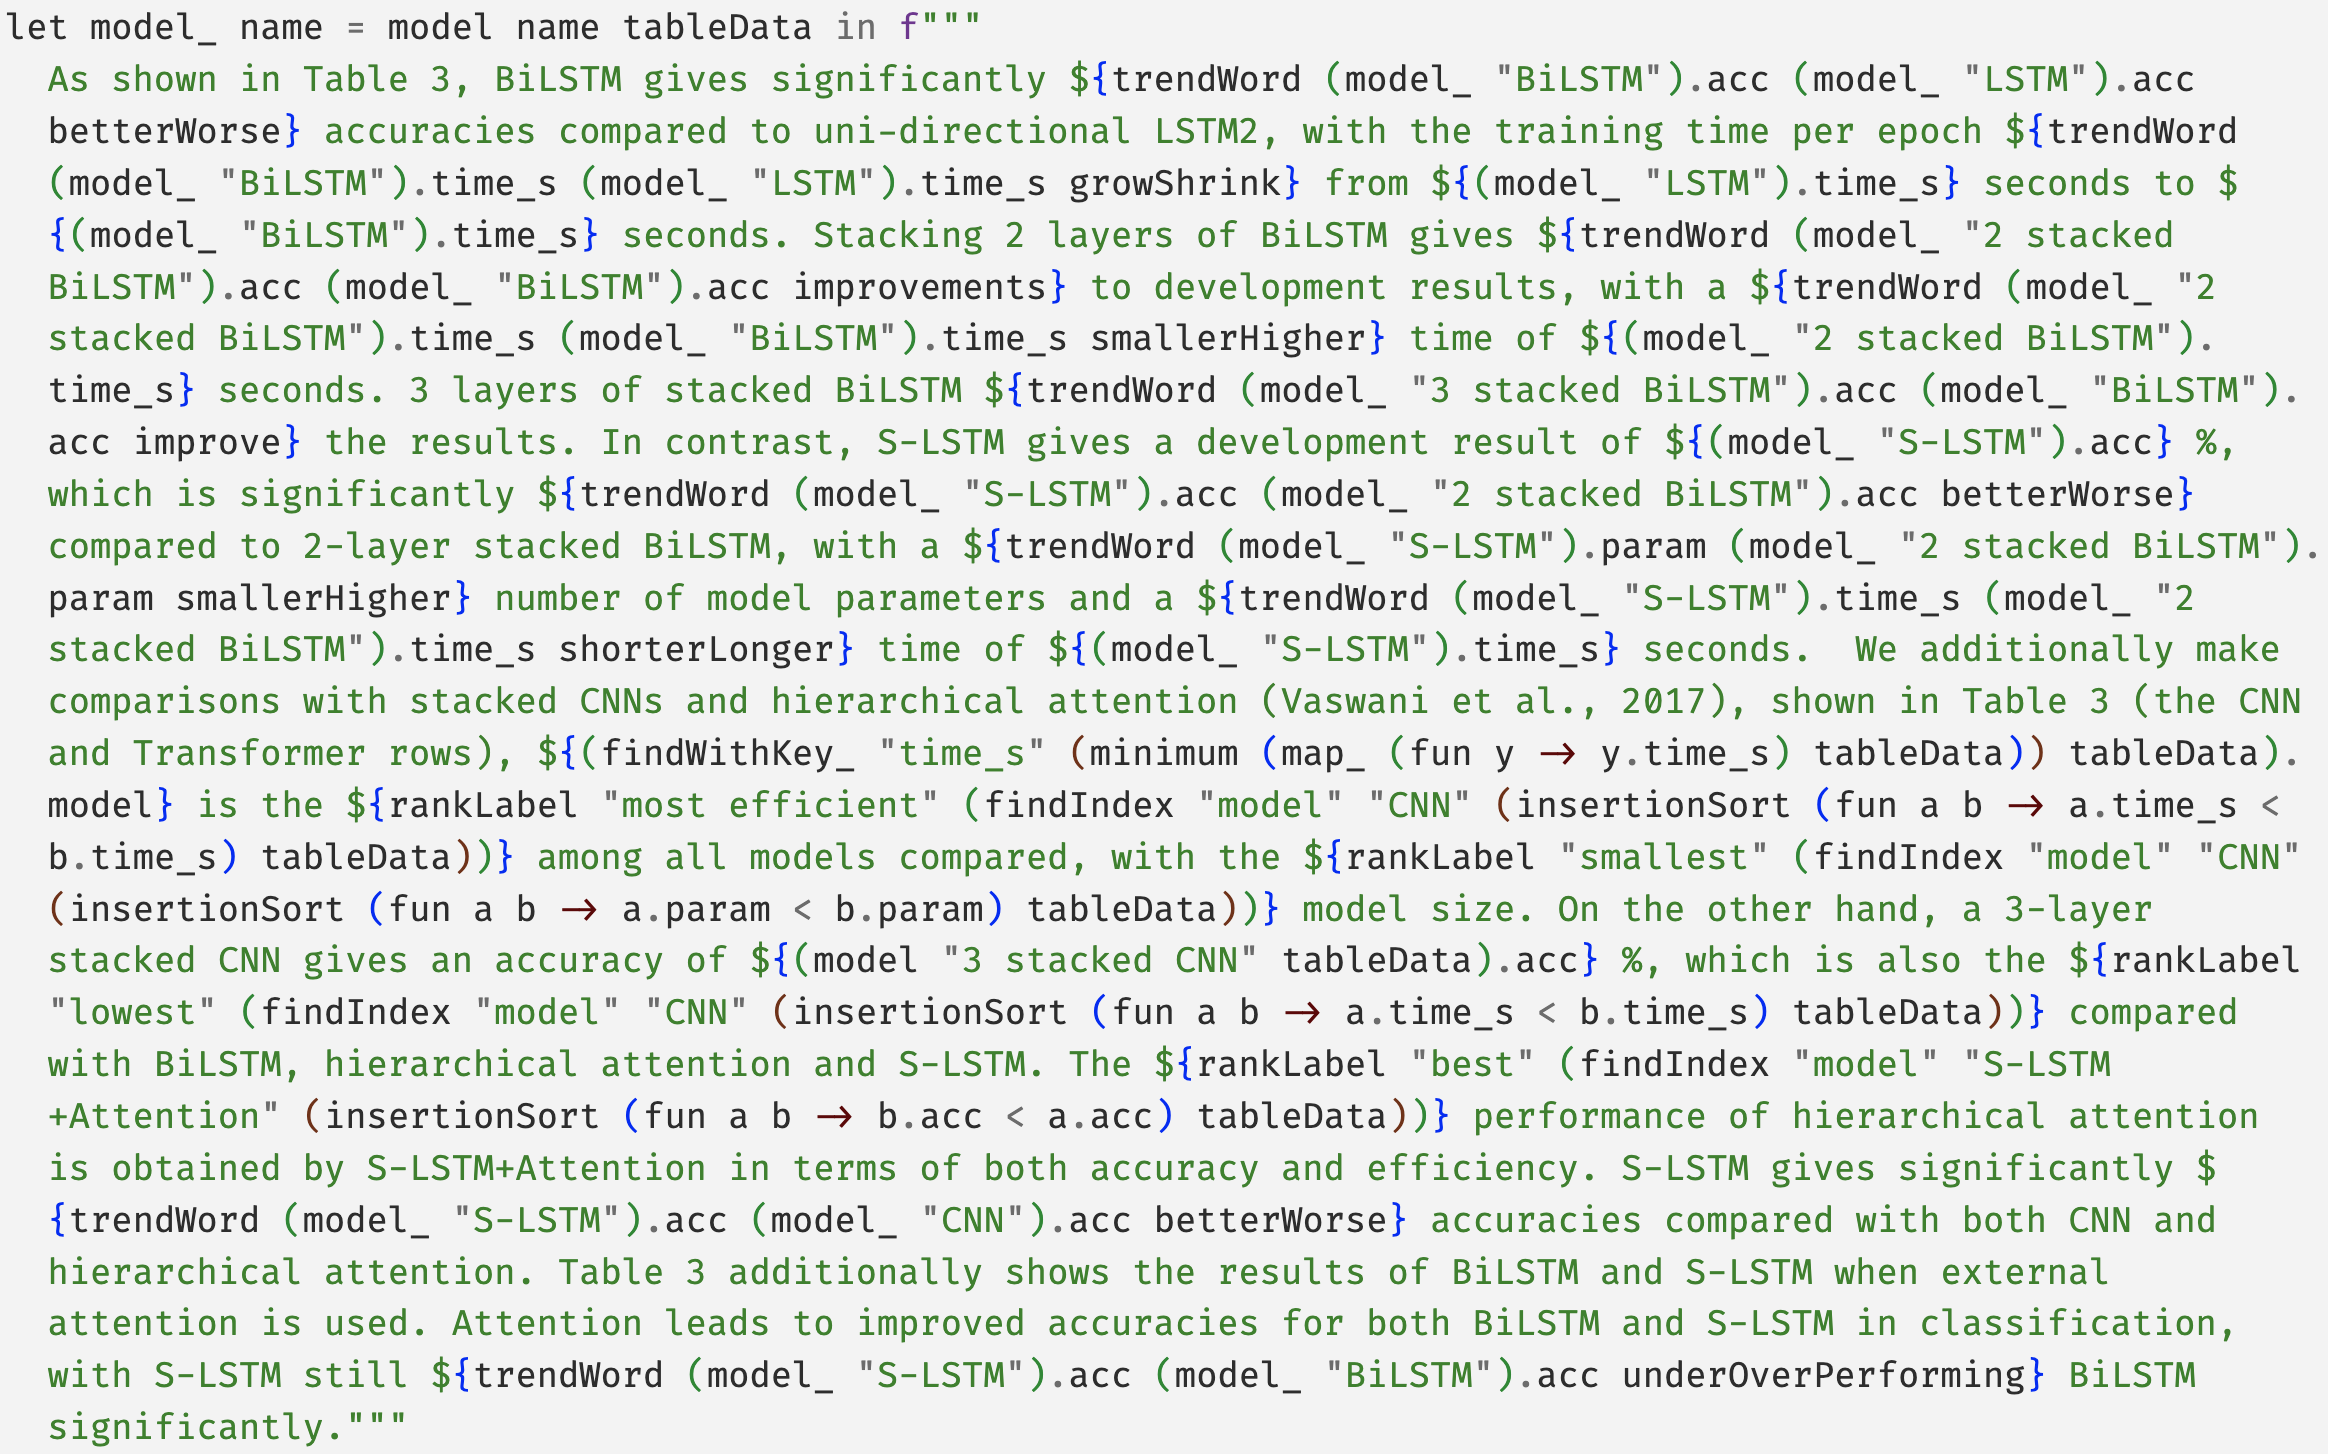
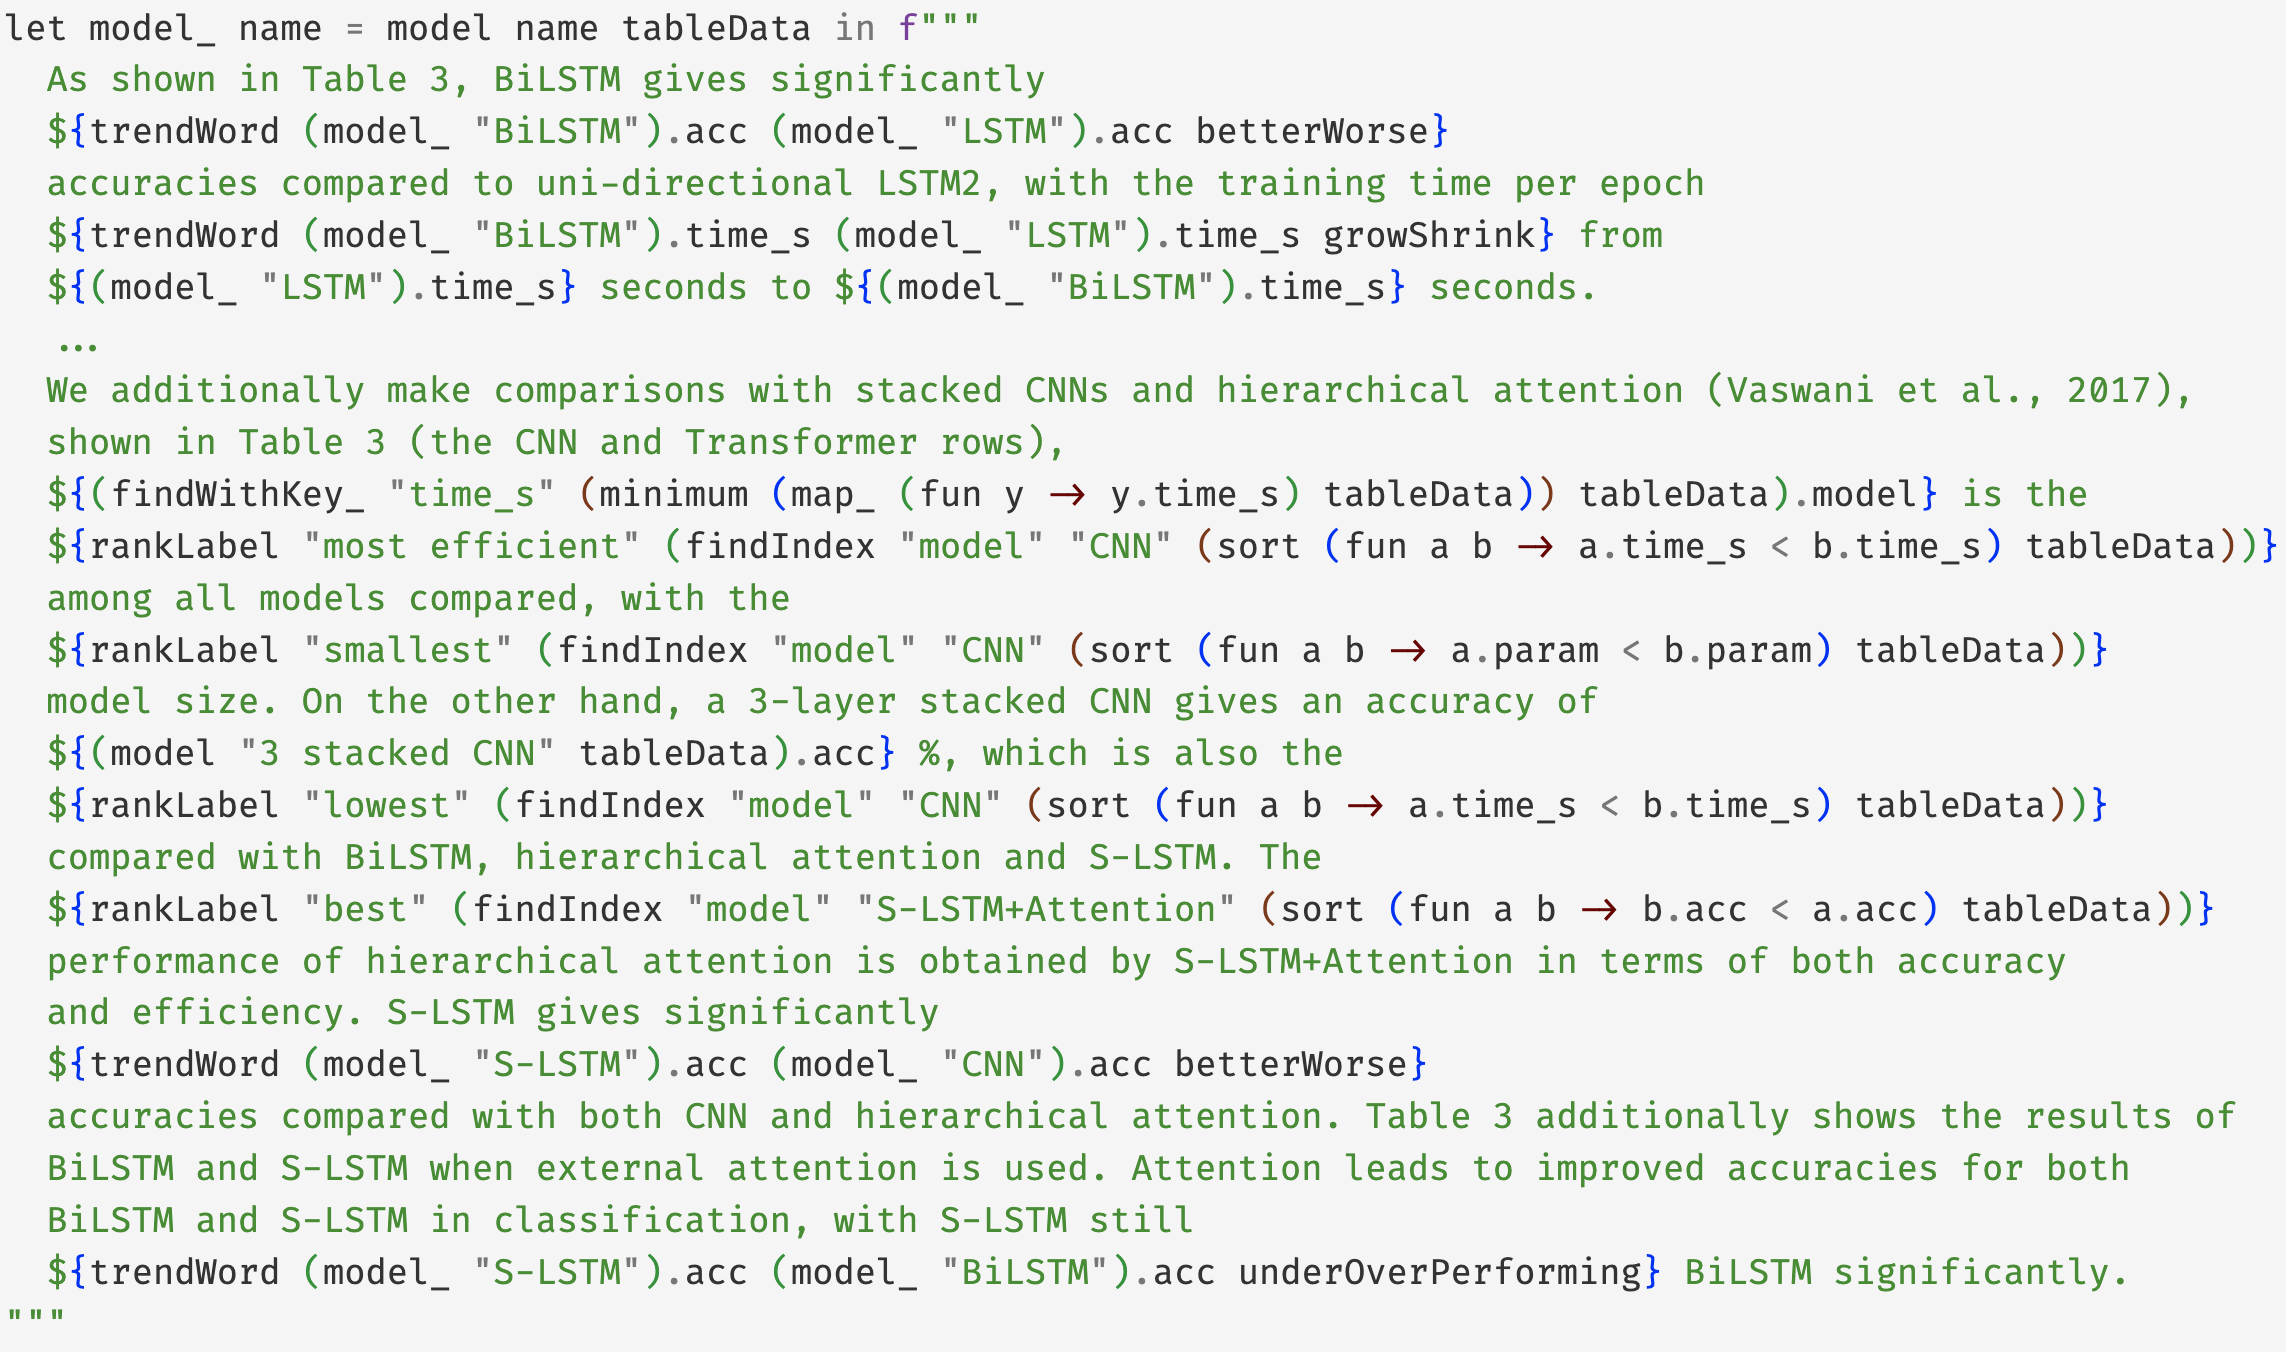
Make Fig. 2 three lines shorter; add some newlines for readability.

Changed region(s): [[0.0, 0.0, 0.9939, 0.9941]]

diff --git a/paper/fig/scigen-1805.02474v1-10-src.tex b/paper/fig/scigen-1805.02474v1-10-src.tex
@@ -2,6 +2,6 @@
     \small
     % listings package seems to struggle, for now just use screenshot from VSCode
     \includegraphics[scale=0.169]{fig/scigen-1805.02474v1-10-src-screenshot.png}
-    \caption{Gold solution for transparent text in \figref{scigen-example-website} \mdnote{The figure is somewhat difficult to read (partly because there are no line breaks or indents). It also seems rather long, although I understand that probably nothing can be omitted.}}
+    \caption{Gold solution for transparent text in \figref{scigen-example-website} (some lines omitted)}
     \label{fig:fluid-example-paragraph}
 \end{figure}
